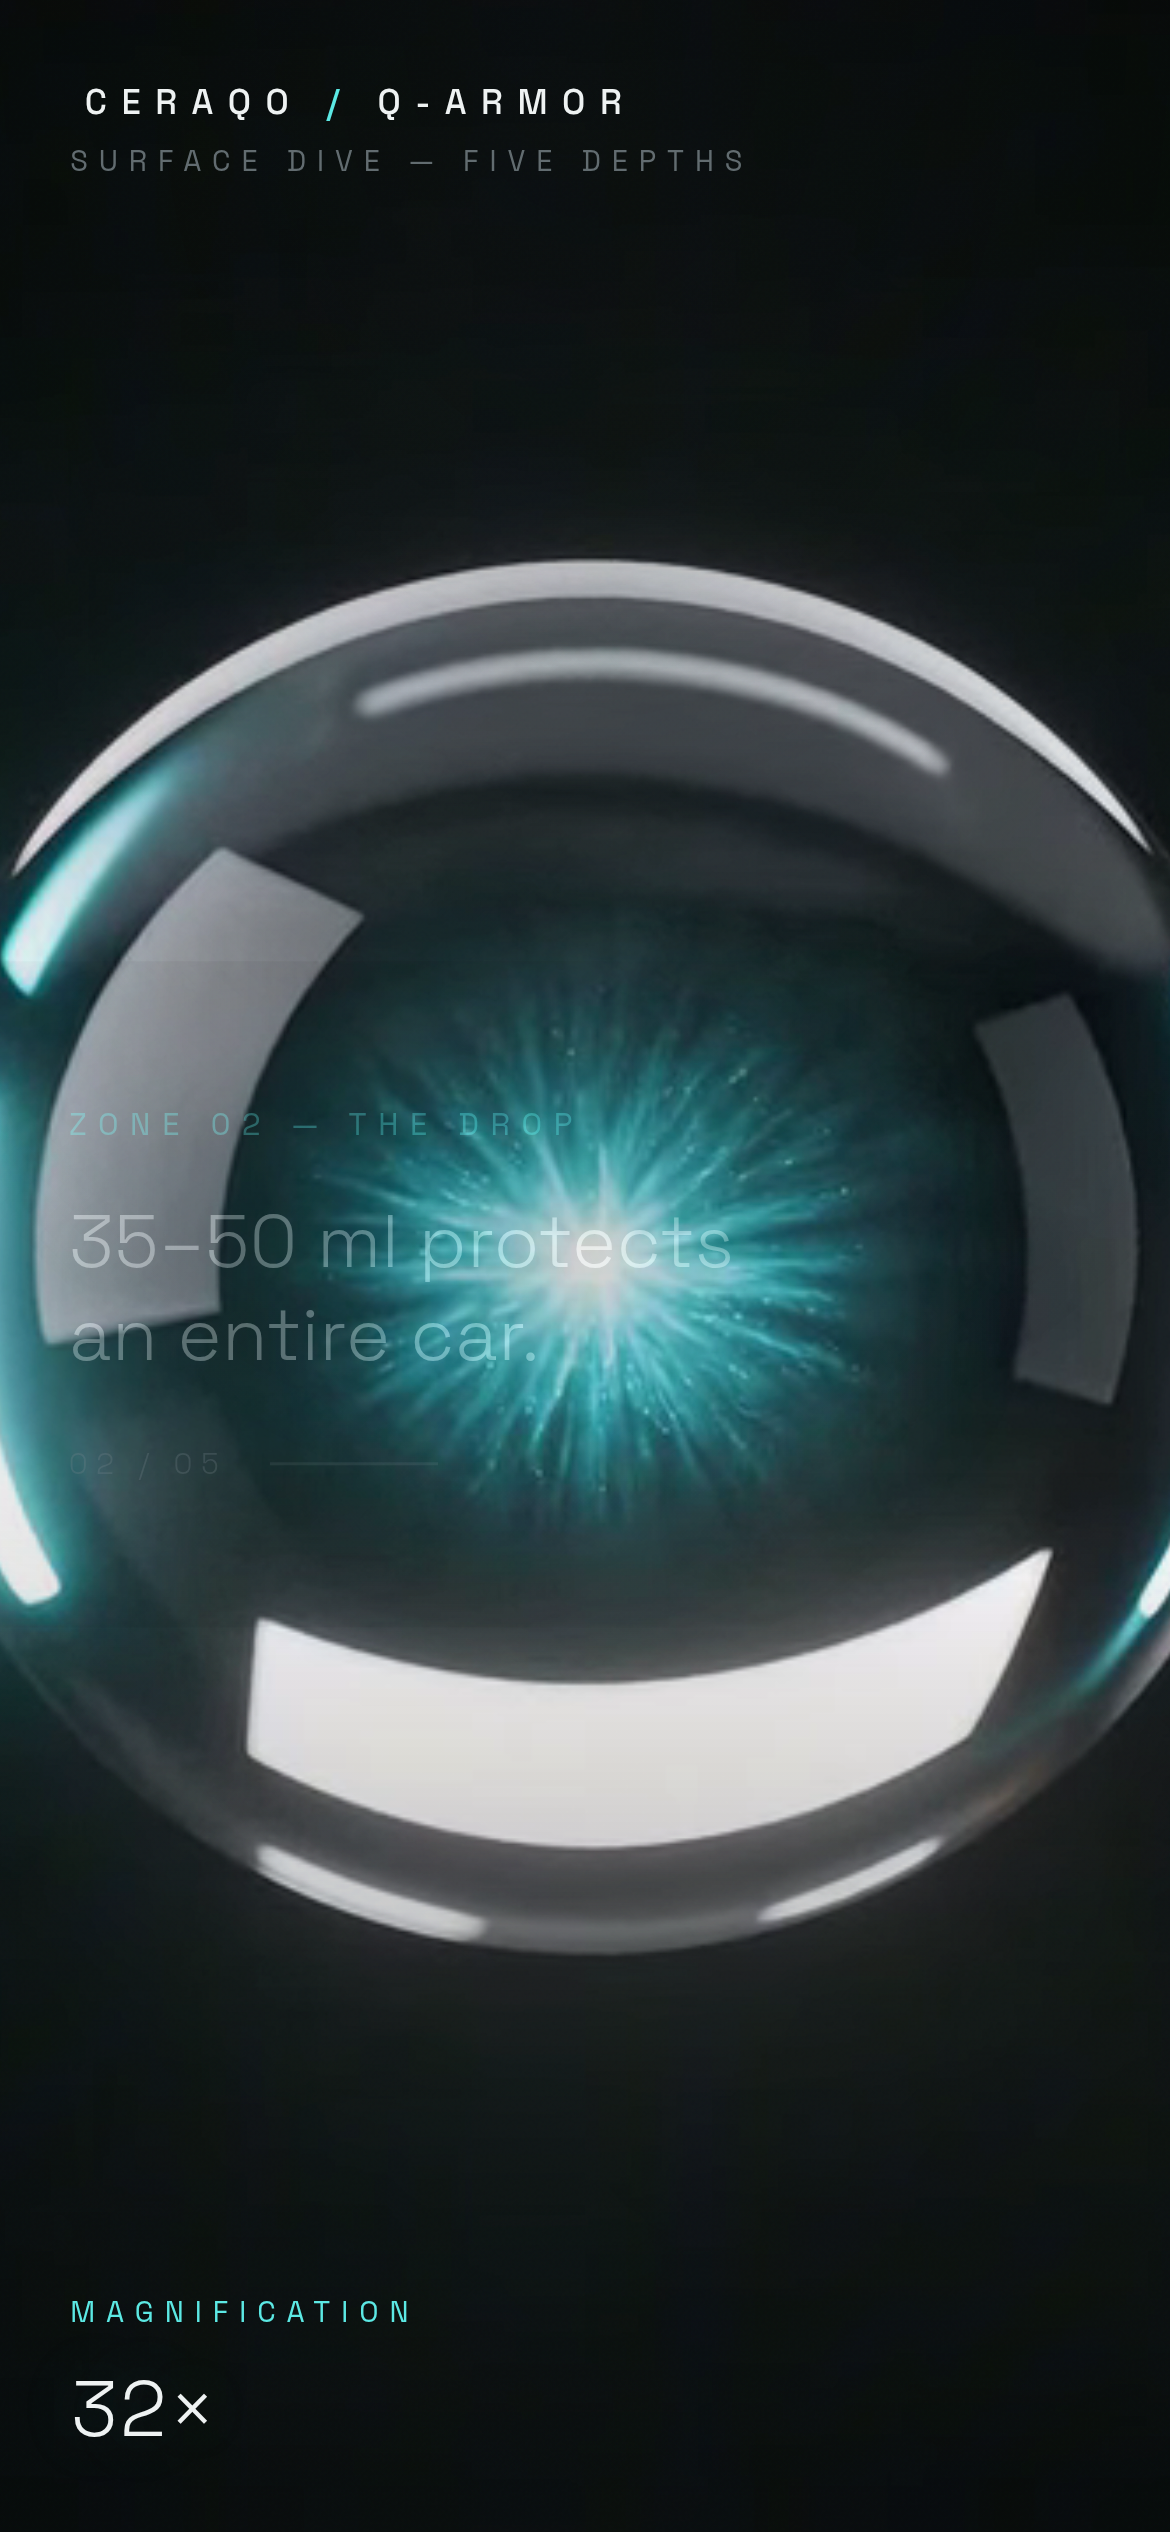
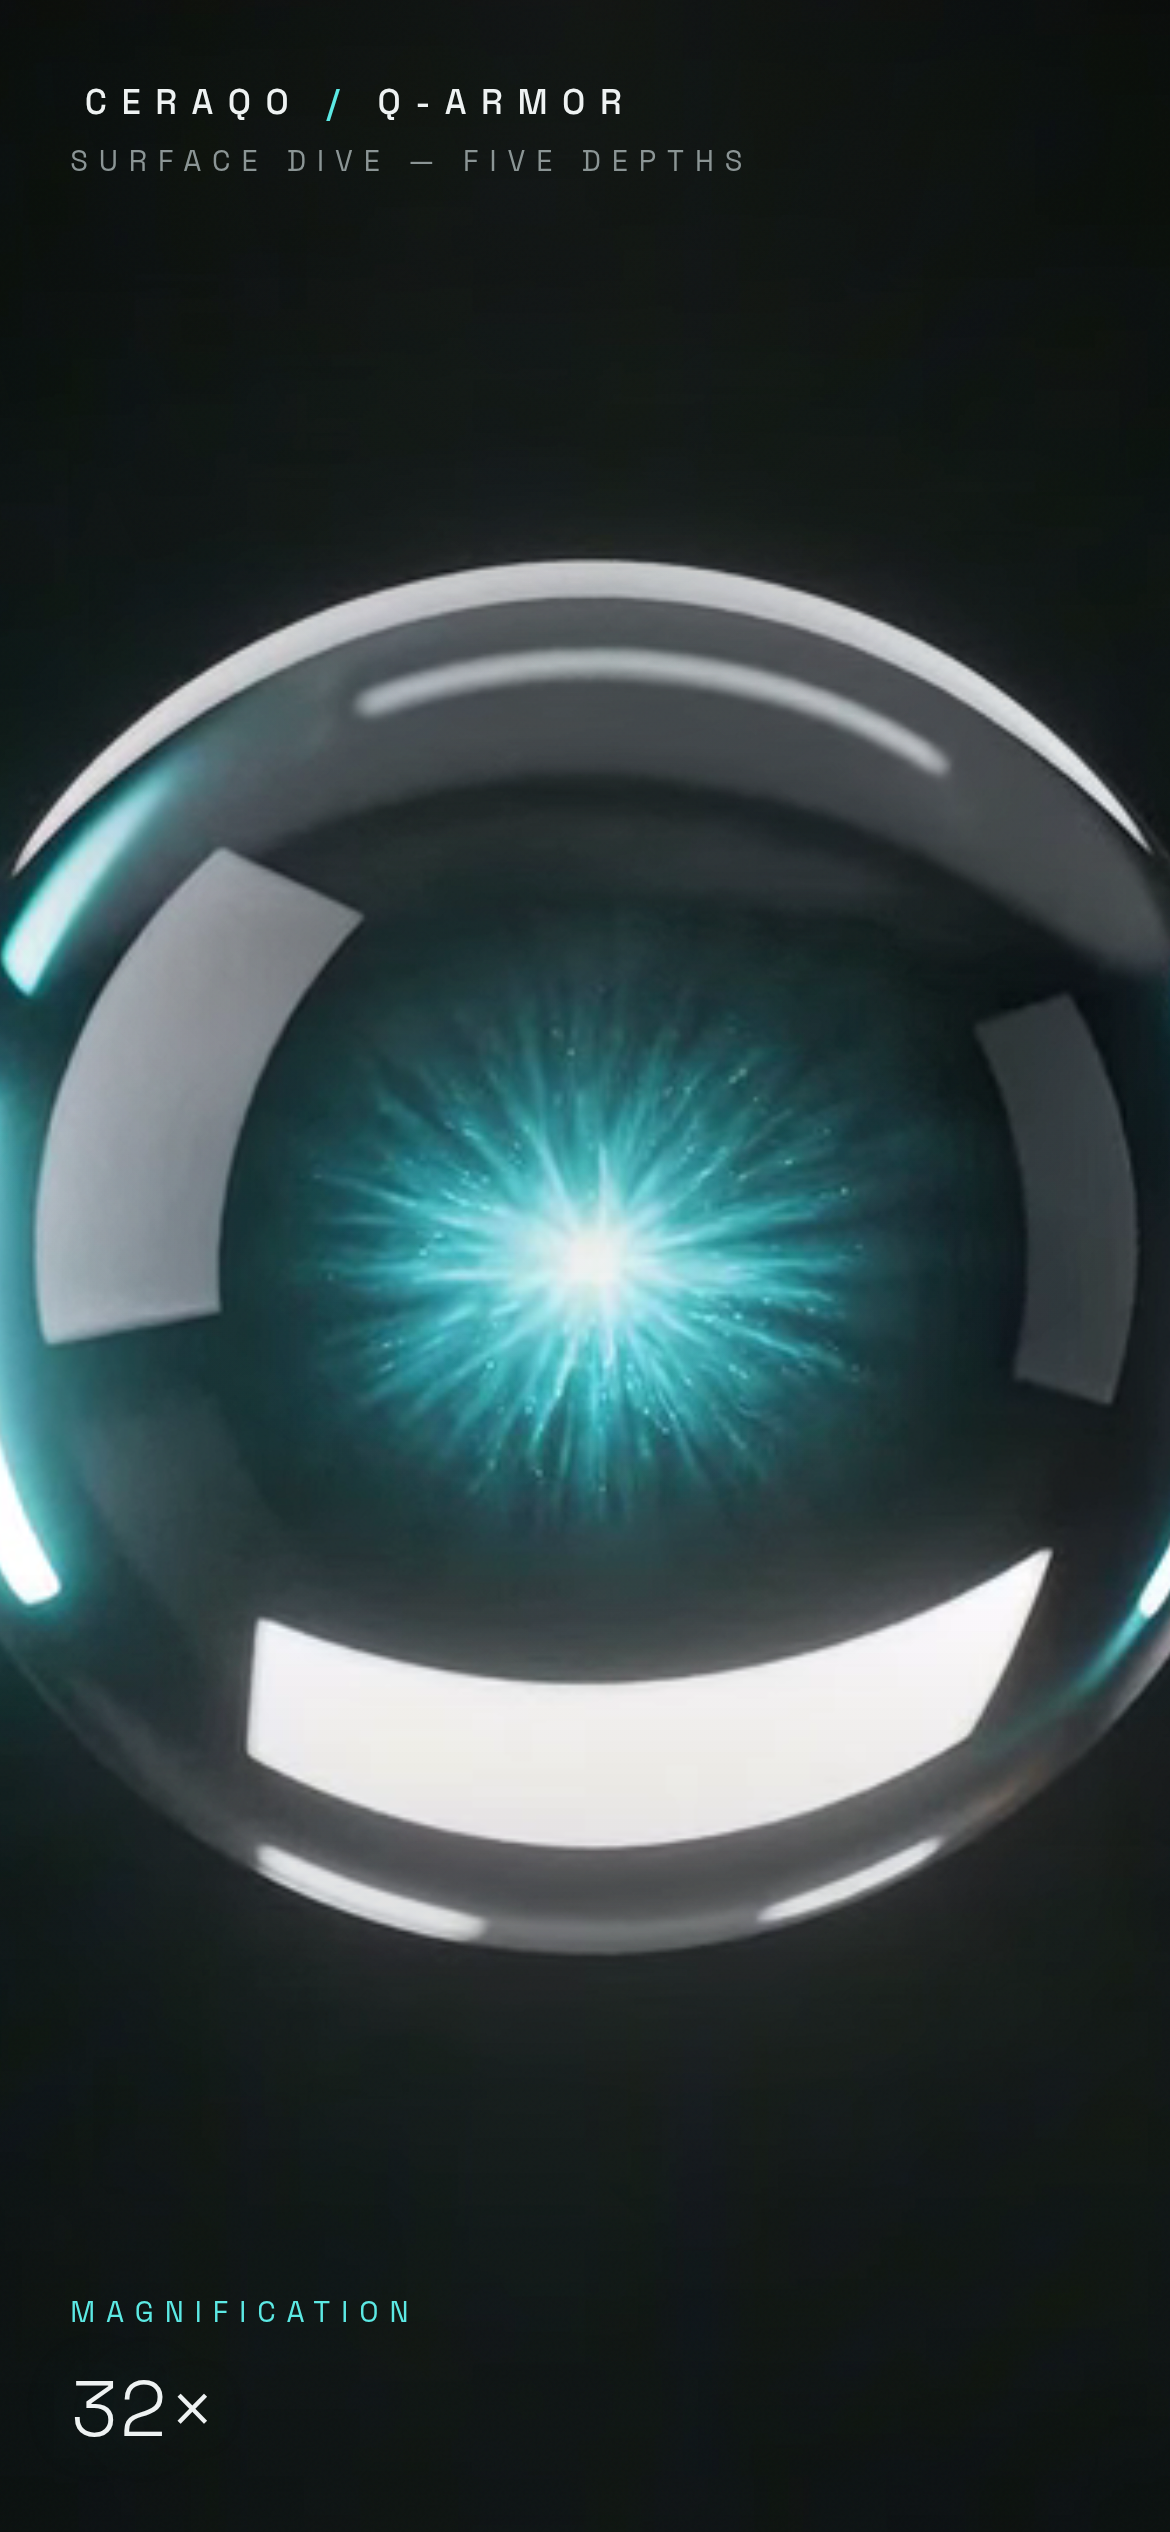
Global background shift: pitch-black void to dusk-graphite showroom
Every surface moves from the #030405 blacks to a green-tinted charcoal
family (#1b1e1c–#262a27): page ground, hero base + lightened scrims,
dive stage with a graphite grade and a narrower ink-edge vignette, post
gradient with a warm champagne floor, panel steps, footer shelf. True
near-black survives only as local accents (vignette edge, selection).
Dim/mid text tokens lift to hold >=4.5:1 on the lightest section tone;
the hero footage now blends into the page ground instead of ending on
a seam. First gated step of the scroll-story redesign brief.

Claude-Session: https://claude.ai/code/session_01KBNgdLRVpeefJZbYuM7ETb

Changed region(s): [[0.2769, 0.4368, 0.6154, 0.5616], [0.0308, 0.468, 0.1846, 0.5304], [0.1846, 0.468, 0.2462, 0.5304]]

diff --git a/src/styles/site.css b/src/styles/site.css
@@ -58,8 +58,8 @@
   justify-content: center;
   gap: 2.4rem;
   background:
-    radial-gradient(120% 90% at 50% 110%, rgba(92, 233, 228, 0.05), transparent 55%),
-    var(--c-black);
+    radial-gradient(120% 90% at 50% 110%, rgba(92, 233, 228, 0.06), transparent 55%),
+    var(--c-bg);
   transition: opacity 0.9s var(--ease-out), visibility 0.9s;
 }
 
@@ -123,7 +123,7 @@
   position: absolute;
   inset: 0;
   overflow: hidden;
-  background: var(--c-black);
+  background: var(--c-stage);
 }
 
 /* Stills + transition videos share one cover-fit stack; the state
@@ -151,8 +151,8 @@
   z-index: 2;
   pointer-events: none;
   background:
-    radial-gradient(140% 100% at 50% 0%, rgba(18, 21, 25, 0.45), transparent 60%),
-    linear-gradient(180deg, rgba(3, 4, 5, 0) 58%, rgba(3, 4, 5, 0.5) 100%);
+    radial-gradient(140% 100% at 50% 0%, rgba(38, 42, 39, 0.4), transparent 60%),
+    linear-gradient(180deg, rgba(12, 14, 13, 0) 62%, rgba(12, 14, 13, 0.34) 100%);
 }
 
 .dive-vignette {
@@ -160,7 +160,7 @@
   inset: 0;
   z-index: 2;
   pointer-events: none;
-  background: radial-gradient(125% 125% at 50% 50%, transparent 58%, rgba(0, 0, 0, 0.46) 100%);
+  background: radial-gradient(125% 125% at 50% 50%, transparent 64%, rgba(12, 14, 13, 0.32) 100%);
 }
 
 /* Fine static grain keeps the gradients filmic instead of digital */
@@ -360,7 +360,7 @@
   content: '';
   position: absolute;
   inset: -3rem -5rem -3rem -6rem;
-  background: radial-gradient(70% 85% at 38% 50%, rgba(3, 4, 5, 0.58), transparent 78%);
+  background: radial-gradient(70% 85% at 38% 50%, rgba(16, 19, 17, 0.52), transparent 78%);
   z-index: -1;
   pointer-events: none;
 }
@@ -469,8 +469,9 @@
 .post {
   position: relative;
   background:
-    radial-gradient(90% 60% at 50% 0%, rgba(92, 233, 228, 0.04), transparent 60%),
-    linear-gradient(180deg, var(--c-black), var(--c-graphite-2) 30%, var(--c-black));
+    radial-gradient(90% 60% at 50% 0%, rgba(92, 233, 228, 0.05), transparent 60%),
+    radial-gradient(70% 42% at 80% 74%, rgba(200, 168, 120, 0.05), transparent 70%),
+    linear-gradient(180deg, var(--c-stage), var(--c-graphite) 30%, var(--c-bg) 66%, var(--c-stage));
 }
 
 .section {
@@ -688,7 +689,8 @@
   gap: 1.2rem;
   align-items: baseline;
   justify-content: space-between;
-  background: var(--c-black);
+  background: var(--c-graphite-2);
+  border-top: 1px solid var(--c-line);
 }
 
 .footer__mark {
@@ -714,7 +716,7 @@
   height: 100vh;
   height: 100svh;
   overflow: hidden;
-  background: var(--c-black);
+  background: var(--c-bg);
 }
 
 .hero__bg {
@@ -745,8 +747,8 @@
   position: absolute;
   inset: 0;
   background:
-    linear-gradient(180deg, rgba(3, 4, 5, 0.5), rgba(3, 4, 5, 0.08) 42%, rgba(3, 4, 5, 0.78) 100%),
-    radial-gradient(90% 70% at 22% 78%, rgba(3, 4, 5, 0.55), transparent 60%);
+    linear-gradient(180deg, rgba(18, 21, 19, 0.42), rgba(18, 21, 19, 0.06) 42%, rgba(18, 21, 19, 0.6) 100%),
+    radial-gradient(90% 70% at 22% 78%, rgba(18, 21, 19, 0.44), transparent 60%);
 }
 
 .hero__inner {
@@ -933,7 +935,7 @@
 }
 
 .step {
-  background: var(--c-black);
+  background: var(--c-panel);
   padding: 1.9rem 1.5rem 2.1rem;
   display: flex;
   flex-direction: column;
@@ -1078,4 +1080,16 @@
   letter-spacing: 0.01em;
   color: var(--c-text);
   text-shadow: 0 0 44px rgba(92, 233, 228, 0.14);
+}
+
+/* Tie the hero footage into the page ground instead of ending on a seam */
+.hero::after {
+  content: '';
+  position: absolute;
+  left: 0;
+  right: 0;
+  bottom: 0;
+  height: 20vh;
+  pointer-events: none;
+  background: linear-gradient(180deg, transparent, var(--c-bg));
 }

diff --git a/src/index.css b/src/index.css
@@ -4,11 +4,15 @@
 /* ------------------------------------------------------------------ */
 
 :root {
-  /* Depth-graded blacks: graphite at the surface, pure black at depth */
-  --c-black: #030405;
-  --c-graphite: #121519;
-  --c-graphite-2: #0a0c0f;
-  --c-panel: #0b0d10;
+  /* Showroom-at-dusk graphites: green-tinted charcoal with warm air in
+     it — never a pitch-black void. True near-black (--c-ink) is kept
+     for small local accents only: vignette edges, deep shadows. */
+  --c-bg: #1d201e;
+  --c-stage: #1b1e1c;
+  --c-graphite: #262a27;
+  --c-graphite-2: #212523;
+  --c-panel: #232724;
+  --c-ink: #0c0e0d;
 
   /* Quartz-cyan accent */
   --c-cyan: #5ce9e4;
@@ -20,10 +24,12 @@
   --c-champagne: #c8a878;
   --c-champagne-dim: rgba(200, 168, 120, 0.55);
 
+  /* Lifted for the lighter ground: dim copy holds ≥4.5:1 on every
+     section tone (measured 4.7:1 on the lightest graphite). */
   --c-text: #eef2f2;
-  --c-text-mid: #a7b0b3;
-  --c-text-dim: #626c70;
-  --c-line: rgba(238, 242, 242, 0.1);
+  --c-text-mid: #aeb7b7;
+  --c-text-dim: #8b9595;
+  --c-line: rgba(238, 242, 242, 0.13);
 
   --font-sans: 'Space Grotesk', 'Helvetica Neue', Arial, sans-serif;
 
@@ -59,7 +65,7 @@ html {
 
 html,
 body {
-  background: var(--c-black);
+  background: var(--c-bg);
   color: var(--c-text);
   font-family: var(--font-sans);
   font-weight: 300;
@@ -96,7 +102,7 @@ a {
 
 ::selection {
   background: var(--c-cyan);
-  color: var(--c-black);
+  color: var(--c-ink);
 }
 
 /* Focus visibility */

diff --git a/index.html b/index.html
@@ -4,7 +4,7 @@
     <meta charset="UTF-8" />
     <link rel="icon" type="image/svg+xml" href="/favicon.svg" />
     <meta name="viewport" content="width=device-width, initial-scale=1.0" />
-    <meta name="theme-color" content="#030405" />
+    <meta name="theme-color" content="#1d201e" />
     <meta
       name="description"
       content="More Than Protection. A New Generation of Surface Engineering. Q-ARMOR creates an ultra-thin, crystal-clear protective layer that bonds tightly with the surface to deliver long-lasting protection, exceptional gloss and effortless maintenance."
@@ -21,7 +21,7 @@
     <title>CERAQO™ Q-ARMOR — Advanced Surface Protection</title>
     <style>
       html {
-        background: #030405;
+        background: #1d201e;
       }
     </style>
   </head>
